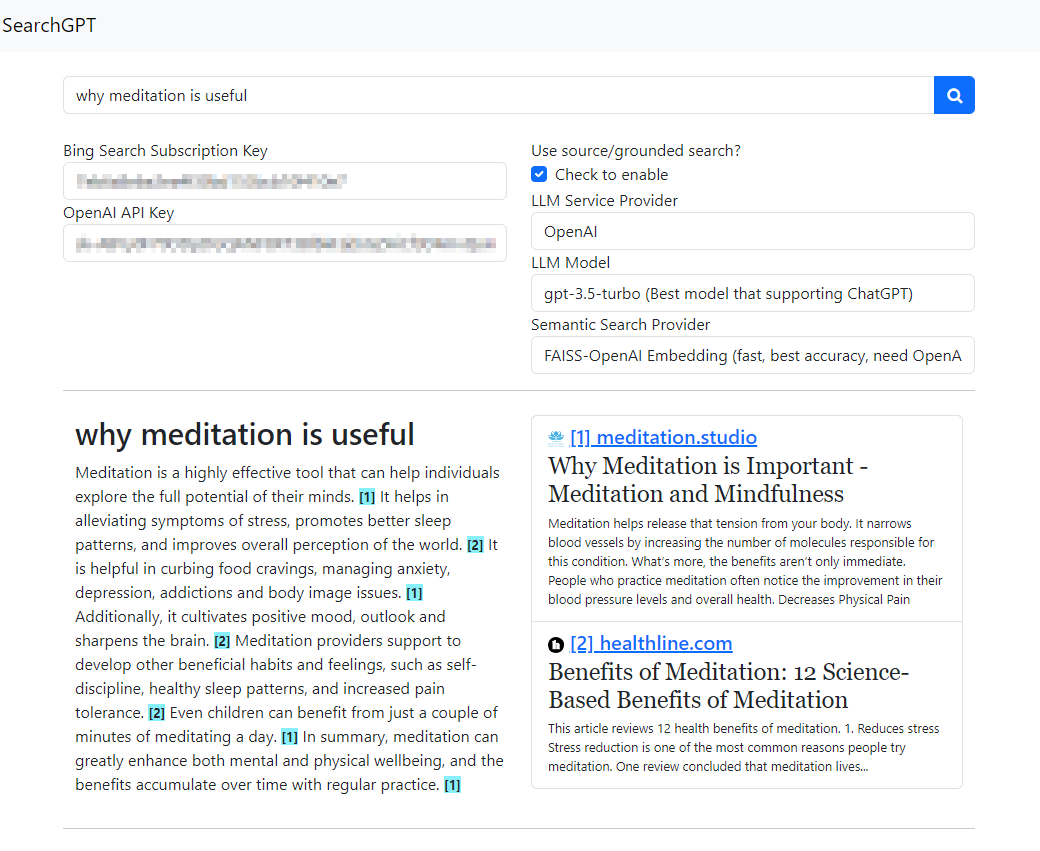
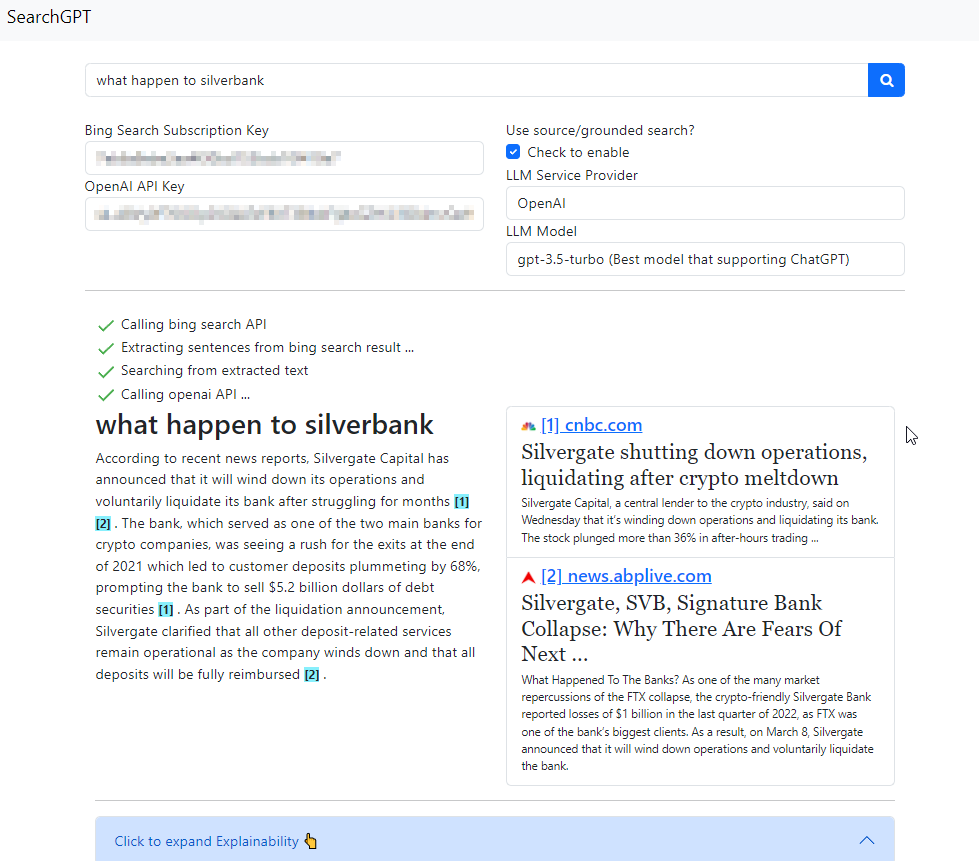
readme update

diff --git a/README.md b/README.md
@@ -3,13 +3,16 @@ searchGPT - An Open-Source LLM-based Grounded Search Engine
 
 **searchGPT** is an open-source project to build a search engine based on Large Language Model (LLM) technology to give natural language answers.
 
-This is a minimal implementation with modular plugin design, meaning you can choose different tech for different components.
+You may consider that this is a **minimal implementation of new Bing mainly for search engine and question answering**. 
 
-You may imagine that it is like ChatGPT but answers using sources like the Internet and supports file content search.
+It supports using sources like the Internet and supports file content search.
+
+Please give me a star if you like it! 🌟
 
 ### **(Demo page link is available below!)**
 
 ![webui](/img/webui.png)
+![explainability](/img/explainability.png)
 
 Features
 --------
@@ -83,17 +86,11 @@ pip install -r requirements.txt
 
 2. Input API keys (OpenAI/Azure Bing Search) in `backend/src/config/config.yaml` (or using UI)
 3. Run `app.py`, (or `flask_app.py`) for frontend web app launching. `main.py` for stdout output only.
-4. (optional, if you use pyterrier) Install JAVA >= 11
-    * Related linkes
-        - https://www.oracle.com/tw/java/technologies/downloads/#jdk19-windows
-        - https://download.oracle.com/java/19/latest/jdk-19_windows-x64_bin.exe
-    - Then set your JAVA_HOME environment variable
-        - `JAVA_HOME="C:\Program Files\Java\jdk-19"`
 
 Contributing
 ------------
 
-We welcome contributions to **searchGPT**!
+We welcome contributions to **searchGPT**! (Especially frontend developers)
 
 If you're interested in contributing, please take a look at our [contributing guidelines](./CONTRIBUTING.md) for more information.
 
